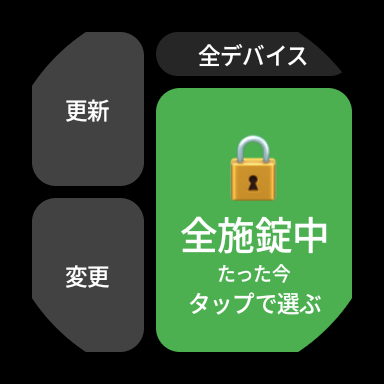
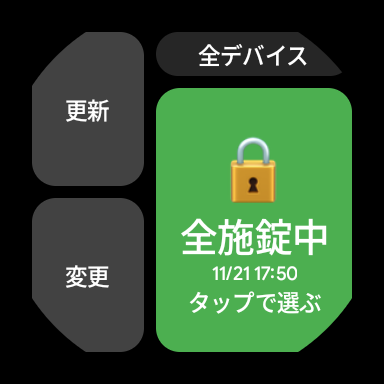
docs: 📸 ウォッチのタイルの取得時刻の新表記に合わせて掲載画像を撮り直す
BL-313でタイルの取得時刻を「11/21 17:50」の形にしたため、旧表記のままだった
wear_2 / wear_4 をPixel Watch 2実機（撮影モード）で撮り直し、wear_2 と同じ画像を
タイル追加の一覧のプレビューへも写した。時刻が写らないほかの画像は据え置き。

関連: BL-313, BL-310

Claude-Session: https://claude.ai/code/session_01WnqNbZ6ebvCGnSnCY76eMN

Changed region(s): [[0.4688, 0.5625, 0.8438, 0.8438], [0.5938, 0.3438, 0.7188, 0.5312], [0.5, 0.75, 0.5938, 0.8125]]

diff --git a/docs/records/managed/EXECUTE.md b/docs/records/managed/EXECUTE.md
@@ -5,6 +5,27 @@
 
 <!-- COPILOT_RECORDS:BEGIN -->
 ```yaml
+- date: 2026-11-21 21:00
+  summary: ウォッチのタイルの取得時刻の表記変更（BL-313）に合わせて、掲載画像 wear_2 / wear_4 とタイル追加の一覧のプレビューを実機で撮り直した
+  details:
+    変更内容: >-
+      ユーザーの指示（スクショの取り直しを確認して進める、2026-11-21）による。wear_2_tile_locked / wear_4_tile_mixed が旧表記（「たった今」「2分前」）
+      のままだったため、Pixel Watch 2実機（デバッグ版、撮影モードの見本の3台、全デバイスのタイル）で撮り直した（「11/21 17:19」「11/21 17:50」）。
+      wear_2 は tile_preview.png の元画像でもあるため同じ画像を drawable-nodpi へ写した（BL-310）。ほかの画像は時刻の文言が無く据え置き。
+      撮影用に追加したタイルは撮影後に外した。実Sesame・実資格情報は使っていない。
+    変更ファイル:
+      - docs/store/images/screenshots/wear_2_tile_locked.png
+      - docs/store/images/screenshots/wear_4_tile_mixed.png
+      - wear/src/main/res/drawable-nodpi/tile_preview.png
+      - docs/store/README.md
+      - docs/records/managed/EXECUTE.md
+    検証コマンド: >-
+      ./gradlew ktlintCheck detekt lintDebug testDebugUnitTest test assembleDebug / npx markdownlint-cli2 "**/*.md" / python scripts/validate-records.py
+    検証結果: >-
+      成功 - 全ゲート終了コード0。画像は実機の画面を目視で確認した。
+    関連ID:
+      - BL-313
+      - BL-310
 - date: 2026-11-21 20:30
   summary: スマホが通信できないときのウォッチの施錠・解錠を、届かなければ失敗として知らせ、クラウド中継ノードへ宛てて送らないようにした（BL-312）
   details:

diff --git a/docs/store/README.md b/docs/store/README.md
@@ -48,6 +48,10 @@ Google Play Console へ提出する掲載情報を、このディレクトリで
   壁紙はウィジェットとダイアログ以外をぼかす）で、ウォッチの画面は加工していません。`phone_1` の差し替えに合わせて
   ウィジェットのプレビュー画像と説明文入りの画像も作り直しました。`phone_4` は、同じ日にカードのボタンを「鍵を操作」
   「Bluetooth」の2つへまとめた（BL-303）後の表示で撮り直しています。
+- 2026-11-21（同日の後ほど）に、ウォッチのタイルの取得時刻をウィジェットと同じ日時表記（「11/21 17:50」）へ変えた（BL-313）のに合わせて、
+  `wear_2_tile_locked` と `wear_4_tile_mixed` をPixel Watch 2実機で撮り直しました（撮影モードの見本の3台、全デバイスのタイル。ウォッチの画面は
+  加工していません）。`wear_2` と同じ画像を、タイル追加の一覧のプレビュー（`tile_preview.png`）へも写しました。ほかのウォッチの画像は
+  時刻の文言が写らないため据え置きです。
 - Wear OS用はGoogle Playの上限（8枚）を超えるため、`wear_10_control_panel` を入れる代わりに `wear_9_radar_all` を
   Play Consoleへ投入しません（接続確認は `wear_7` / `wear_8` で伝わるため。2026-11-21、BL-296で選んだ既定。画像は紹介ページ用に残します）。
 - 2026-11-08に、設定画面の再編・接続確認の追加に合わせて `phone_4_device_list` / `phone_5_menu` の2点を
